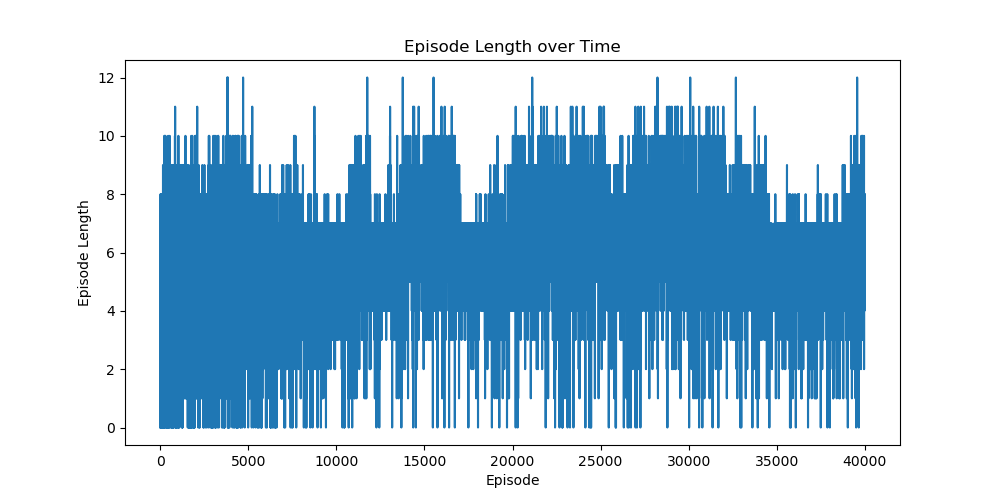
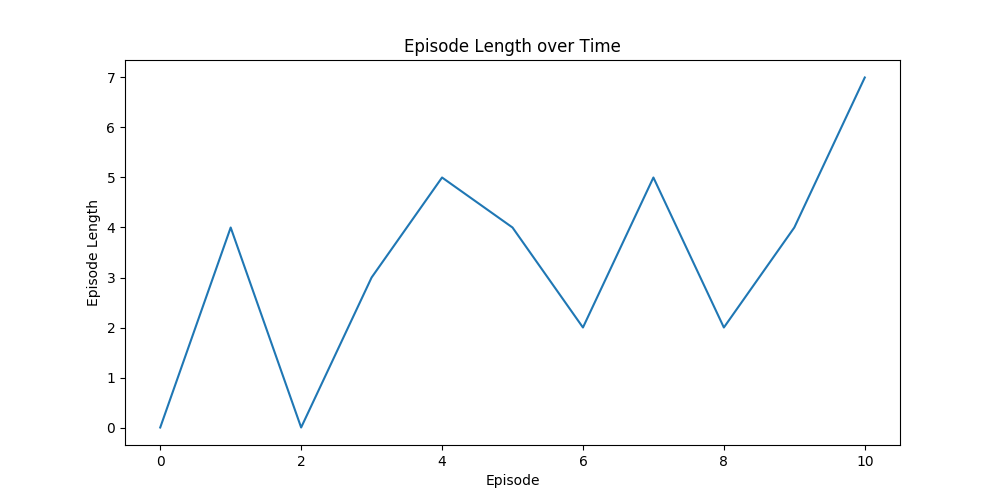
added step-actions

diff --git a/mec-dqn-keras.py b/mec-dqn-keras.py
@@ -38,7 +38,7 @@ MEMORY_FRACTION = 0.20
 LEARNING_RATE = 0.001
 
 # Environment settings
-EPISODES = 40000
+EPISODES = 10
 
 # Exploration settings
 epsilon = 1  # not a constant, going to be decayed
@@ -63,7 +63,7 @@ tf.set_random_seed(1)
 # gpu_options = tf.GPUOptions(per_process_gpu_memory_fraction=MEMORY_FRACTION)
 # backend.set_session(tf.Session(config=tf.ConfigProto(gpu_options=gpu_options)))
 
-filename = "data/dqn-q-values.csv"
+filename = "data/dqn-step-actions.csv"
 # Create models folder
 if not os.path.isdir('models'):
     os.makedirs('models')
@@ -72,7 +72,7 @@ if not os.path.isdir('models'):
 def csv_writer(row):
     with open(filename, 'a+') as file:
         writer = csv.writer(file)
-        writer.writerow(row)
+        writer.writerows(row)
 
 
 # Own Tensorboard class
@@ -236,6 +236,8 @@ stats = plotting.EpisodeStats(
     episode_lengths=np.zeros(EPISODES + 1),
     episode_rewards=np.zeros(EPISODES + 1))
 
+total_step = 1
+step_actions = []
 for episode in tqdm(range(1, EPISODES + 1), ascii=True, unit='episodes'):
 
     # Update tensorboard step every episode
@@ -271,6 +273,7 @@ for episode in tqdm(range(1, EPISODES + 1), ascii=True, unit='episodes'):
         new_state = new_state.reshape(1, 7)
         new_state = normalize(new_state)
 
+        step_actions.append([total_step, action])
         # Transform new continuous state to new discrete state and count reward
         episode_reward += reward
 
@@ -286,7 +289,7 @@ for episode in tqdm(range(1, EPISODES + 1), ascii=True, unit='episodes'):
 
         current_state = new_state
         step += 1
-
+        total_step += 1
         if done:
             break
 
@@ -307,5 +310,5 @@ for episode in tqdm(range(1, EPISODES + 1), ascii=True, unit='episodes'):
     if epsilon > MIN_EPSILON:
         epsilon *= EPSILON_DECAY
         epsilon = max(MIN_EPSILON, epsilon)
-
+csv_writer(step_actions)
 plotting.plot_episode_stats(stats, filename="mec-dqn-lr-0.001-b1024-rm-10k")
